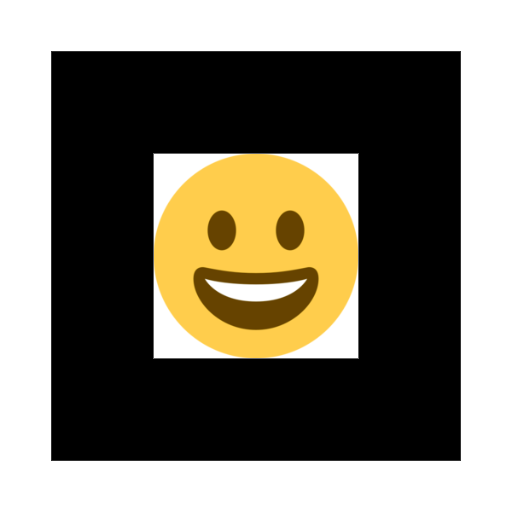
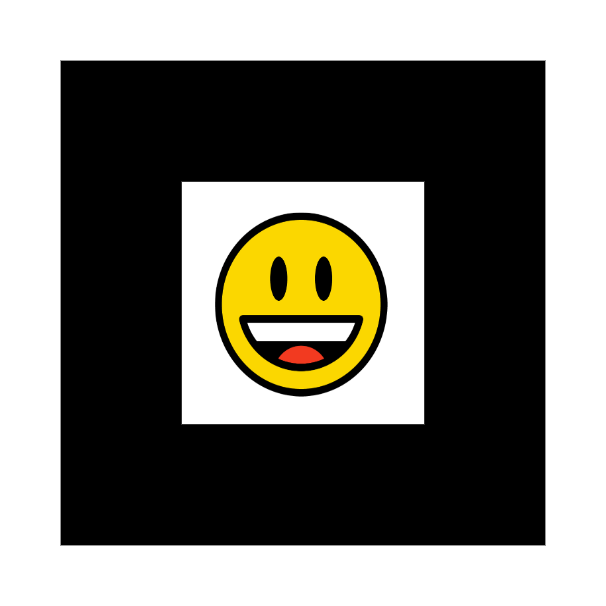
smile7

Changed region(s): [[0.2812, 0.2812, 0.7188, 0.7188], [0.0938, 0.0938, 0.9062, 0.9062]]

diff --git a/index.html b/index.html
@@ -88,7 +88,7 @@
             <!-- こっからARの世界。マーカー上になにを展開するかを書く -->
             
             <!-- <a-marker preset="custom" type="pattern" url="./marker/pattern-arumon.patt"> -->
-            <a-marker preset="custom" type="pattern" url="./marker/pattern-arumon.patt">
+            <a-marker preset="custom" type="pattern" url="./marker/pattern-smile.patt">
                 <a-entity>
                     <a-obj-model 
                         src="#santa-obj"
